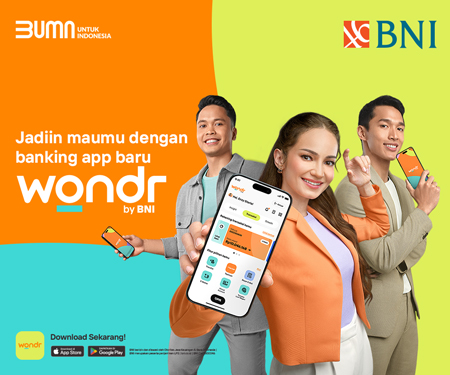
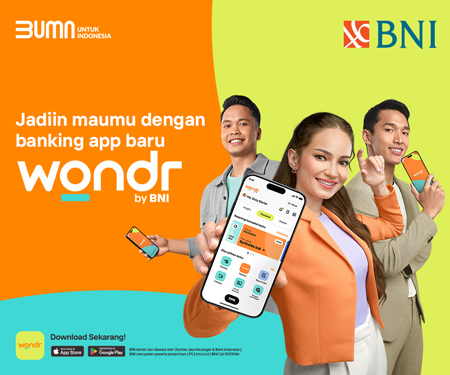
rdgdg

diff --git a/m.idntimes/fsto/bni/index2.html b/m.idntimes/fsto/bni/index2.html
@@ -1079,7 +1079,7 @@ h.end=i=function(){s.className=s.className.replace(RegExp(' ?'+y),'')};
                                 <div style="position: relative; max-width: 320px; left: 0; right: 0; margin: auto">
                                     <img src="https://ads.idntimes.com/cdn/button/close-black-white.png" id="closeBtn" style="max-width: 25px; position: absolute; right: 0; top: -30px;">
                                     <a href="#" target="_blank">
-                                        <img src="src/320x100.jpg" width="320" height="100">
+                                        <img src="src/320x100.gif" width="320" height="100">
                                     </a>
                                 </div>
 

diff --git a/m.idntimes/fsto/bni/index.html b/m.idntimes/fsto/bni/index.html
@@ -2002,7 +2002,7 @@ h.end=i=function(){s.className=s.className.replace(RegExp(' ?'+y),'')};
                 <div style="position: relative; max-width: 320px; left: 0; right: 0; margin: auto">
                     <img src="https://ads.idntimes.com/cdn/button/close-black-white.png" id="closeBtn" style="max-width: 25px; position: absolute; right: 0; top: -30px;">
                     <a href="#" target="_blank">
-                        <img src="src/320x100.jpg" width="320" height="100">
+                        <img src="src/320x100.gif" width="320" height="100">
                     </a>
                 </div>
                 

diff --git a/m.idntimes/fsto/bni/src/parallax.html b/m.idntimes/fsto/bni/src/parallax.html
@@ -13,7 +13,6 @@
                     frameElement.style.height = "480px";
                 }
             }
-
         </script>
     </body>
 </html>
